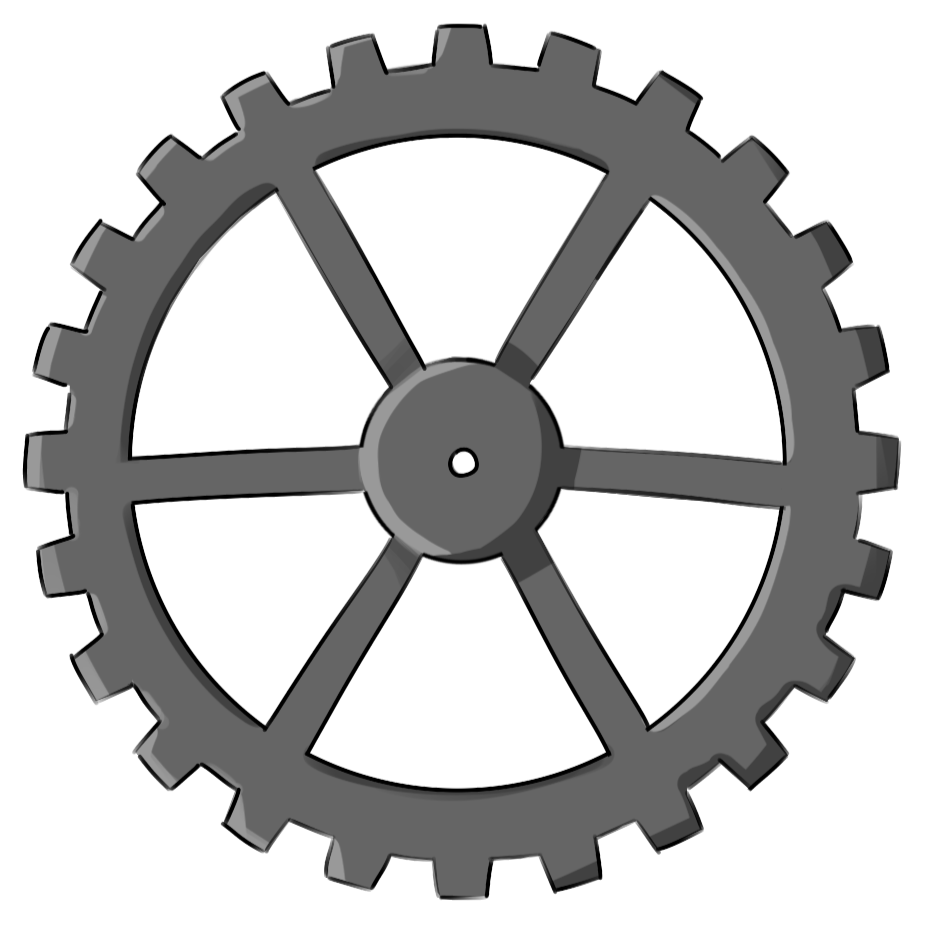
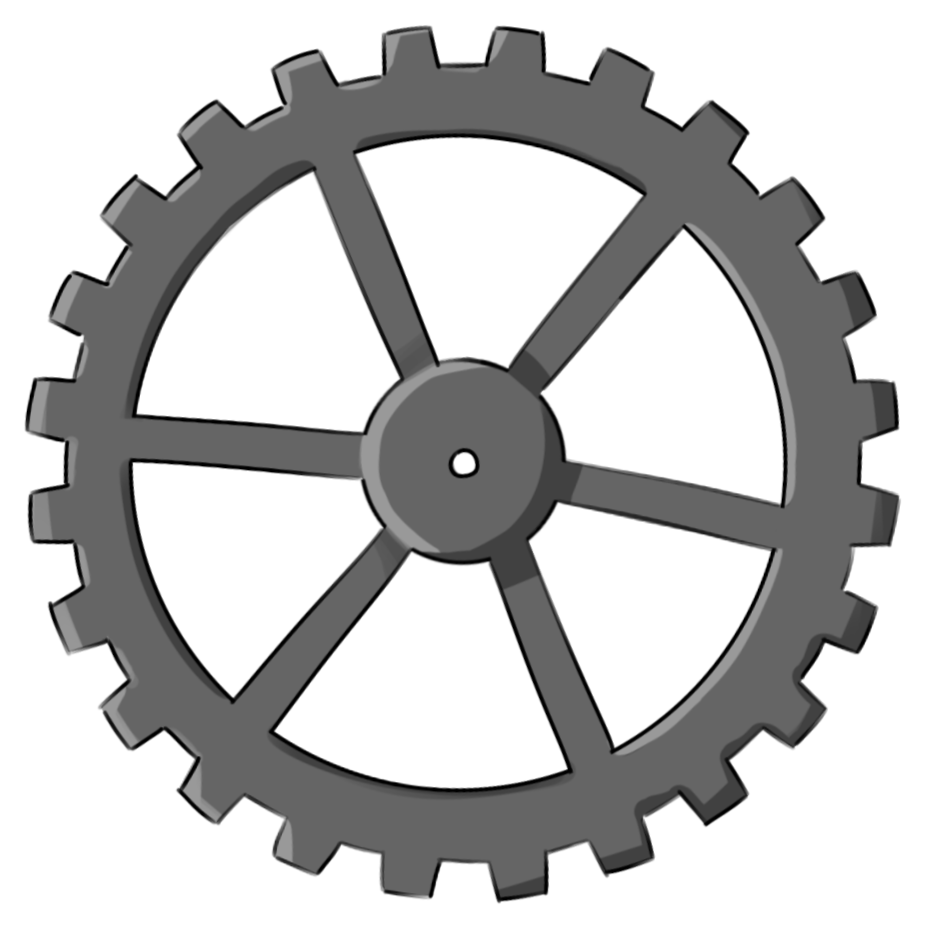
Feature: Cog rotation to fit teeth/gaps
Starting from driver cog, path is created and cogs are offset based on path position A/B/A/B, using BFS

diff --git a/Assets/Scripts/Puzzles/Cog Puzzle/PuzzlePathChecker.cs b/Assets/Scripts/Puzzles/Cog Puzzle/PuzzlePathChecker.cs
@@ -1,5 +1,5 @@
-using UnityEngine;
-using System.Collections.Generic;
+using System.Collections.Generic;
+using UnityEngine;
 
 public class PuzzlePathChecker : MonoBehaviour
 {
@@ -54,24 +54,82 @@ public class PuzzlePathChecker : MonoBehaviour
     {
         if (cog == null) return;
 
-        if (!connectionGraph.ContainsKey(cog))
-        {
-            connectionGraph[cog] = new HashSet<CogController>();
-        }
-        List<CogController> neighbors = GetMeshedNeighbors(cog);
+        RebuildConnectionGraph();
 
-        foreach(var neighbor in neighbors)
+        Debug.Log($"Graph updated with: {cog.name}");
+    }
+
+    private int GetToothCount(CogController.CogSize size)
+    {
+        switch (size)
         {
-            connectionGraph[cog].Add(neighbor);
-            if (!connectionGraph.ContainsKey(neighbor))
+            case CogController.CogSize.Small: return 6;
+            case CogController.CogSize.Medium: return 12;
+            case CogController.CogSize.Large: return 24;
+
+            default: return 12;
+        }
+    }
+
+    private float GetHalfPitch(CogController.CogSize size)
+    {
+        // rotate: gap, tooth, gap, etc
+        if (size == CogController.CogSize.Small) return 30f;
+        if (size == CogController.CogSize.Medium) return 15f;
+        if (size == CogController.CogSize.Large) return 7.5f;
+        return 0f;
+    }
+
+    private float CalculateMeshRotation(CogController parent, CogController child)
+    {
+        // angle from parent to child, where cogs touch
+        Vector3 direction = child.transform.position - parent.transform.position;
+        float angleToChild = Mathf.Atan2(direction.y, direction.x) * Mathf.Rad2Deg;
+
+        // cog ratios based on sizes/teeth
+        float parentTeeth = GetToothCount(parent.size);
+        float childTeeth = GetToothCount(child.size);
+        float ratio = parentTeeth / childTeeth;
+
+   
+        float parentRotationAtContact = Mathf.DeltaAngle(angleToChild, parent.currentRotation);
+        float childRotationAtContact = (parentRotationAtContact * -ratio) + 180f + GetHalfPitch(child.size);
+        return Mathf.Repeat(angleToChild + childRotationAtContact, 360f);
+    }
+
+    private void AlignAllCogs()
+    {
+        if (driverCog == null) return;
+
+        CogController[] allCogs = FindObjectsByType<CogController>(FindObjectsSortMode.None);
+        foreach (var c in allCogs)
+        {
+            c.isAligned = false;
+        }
+
+        Queue<CogController> queue = new Queue<CogController>();
+
+        driverCog.isAligned = true;
+        driverCog.transform.rotation = Quaternion.Euler(0, 0, driverCog.currentRotation);
+        queue.Enqueue(driverCog);
+
+        while (queue.Count > 0)
+        {
+            CogController parent = queue.Dequeue();
+
+            if (!connectionGraph.ContainsKey(parent)) continue;
+
+            foreach (CogController child in connectionGraph[parent])
             {
-                connectionGraph[neighbor] = new HashSet<CogController>();
-            }
-            connectionGraph[neighbor].Add(cog);
-        }
+                if (child.isAligned) continue;
 
-        Debug.Log($"Cog placed: {cog.name} with {neighbors.Count} connections.");
-        CheckPuzzleCompletion();
+                child.currentRotation = CalculateMeshRotation(parent, child);
+                child.transform.rotation = Quaternion.Euler(0, 0, child.currentRotation);
+
+                child.isAligned = true;
+                queue.Enqueue(child);
+            }
+        }
     }
 
     public void OnCogRemoved(CogController cog)
@@ -162,7 +220,8 @@ public class PuzzlePathChecker : MonoBehaviour
 
     private void OnPuzzleSolved()
     {
-        Debug.LogWarning($"\n\nPUZZLE SOLVED\n\n");
+        Debug.LogWarning($"PUZZLE SOLVED PUZZLE SOLVED PUZZLE SOLVED PUZZLE SOLVED PUZZLE SOLVED PUZZLE SOLVED PUZZLE SOLVED");
+        // fade to black, trigger cutscene
     }
 
     private void RebuildConnectionGraph()
@@ -188,5 +247,8 @@ public class PuzzlePathChecker : MonoBehaviour
             }
         }
         Debug.Log($"Connection graph rebuilt with {connectionGraph.Count} cogs.");
+
+        AlignAllCogs();
+        CheckPuzzleCompletion();
     }
 }
